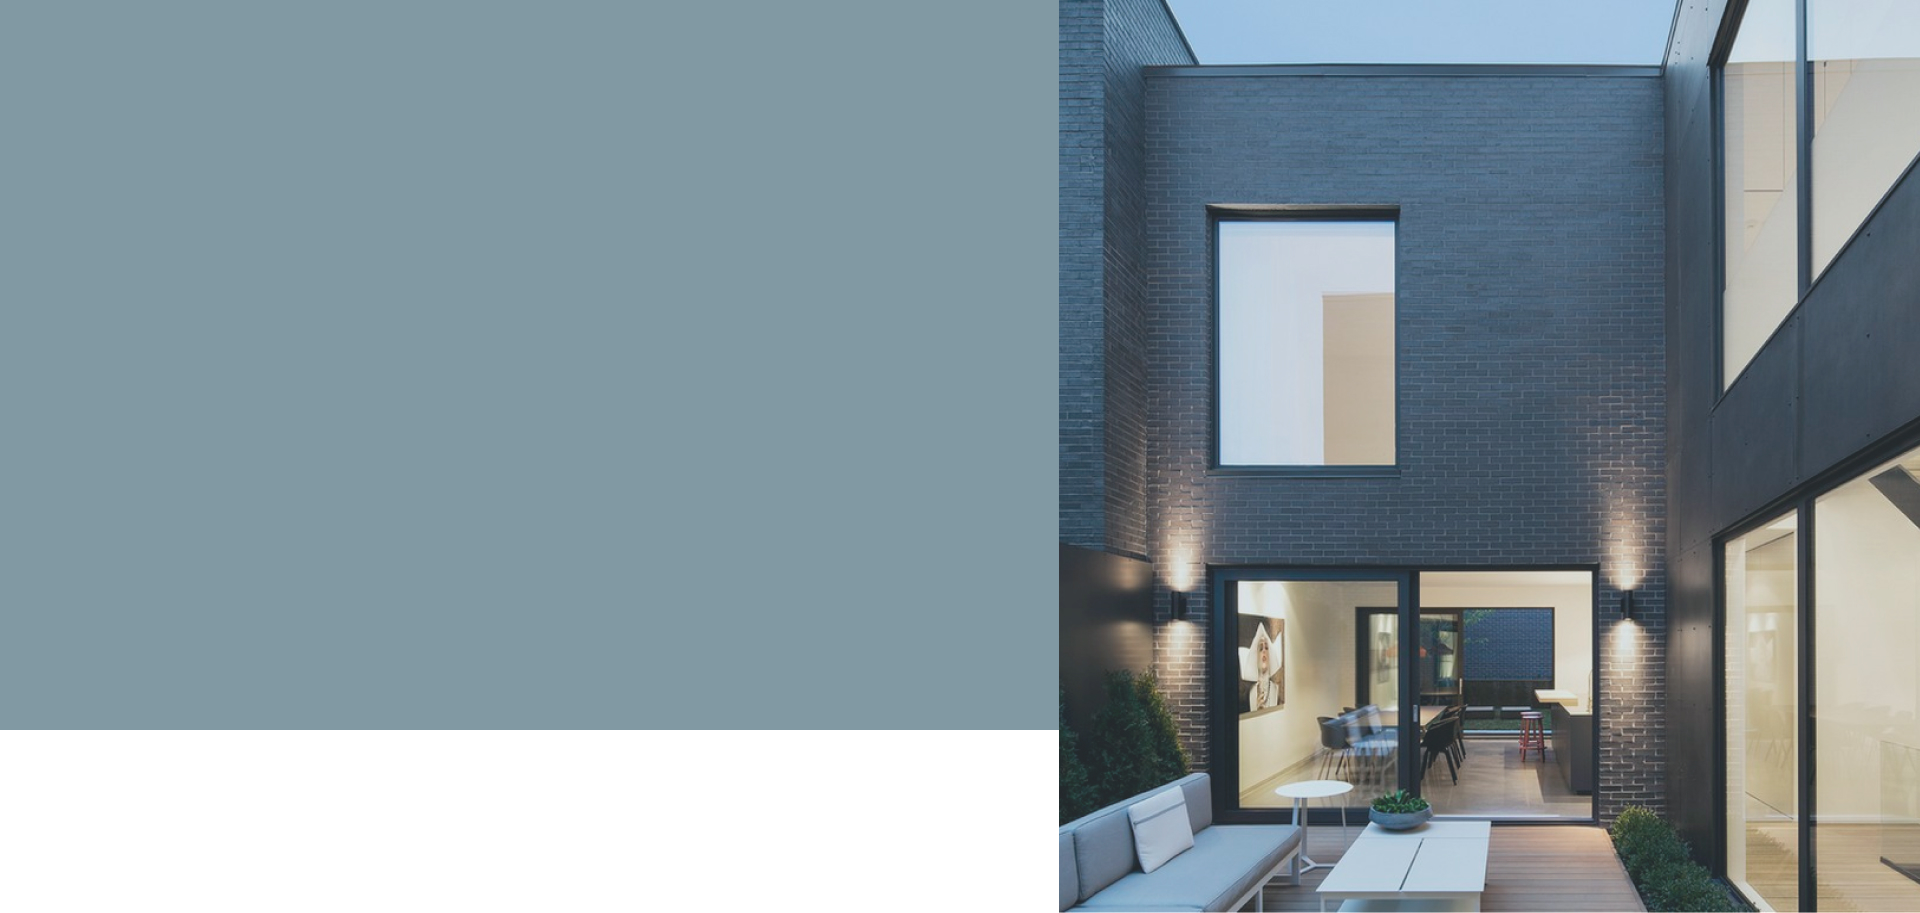
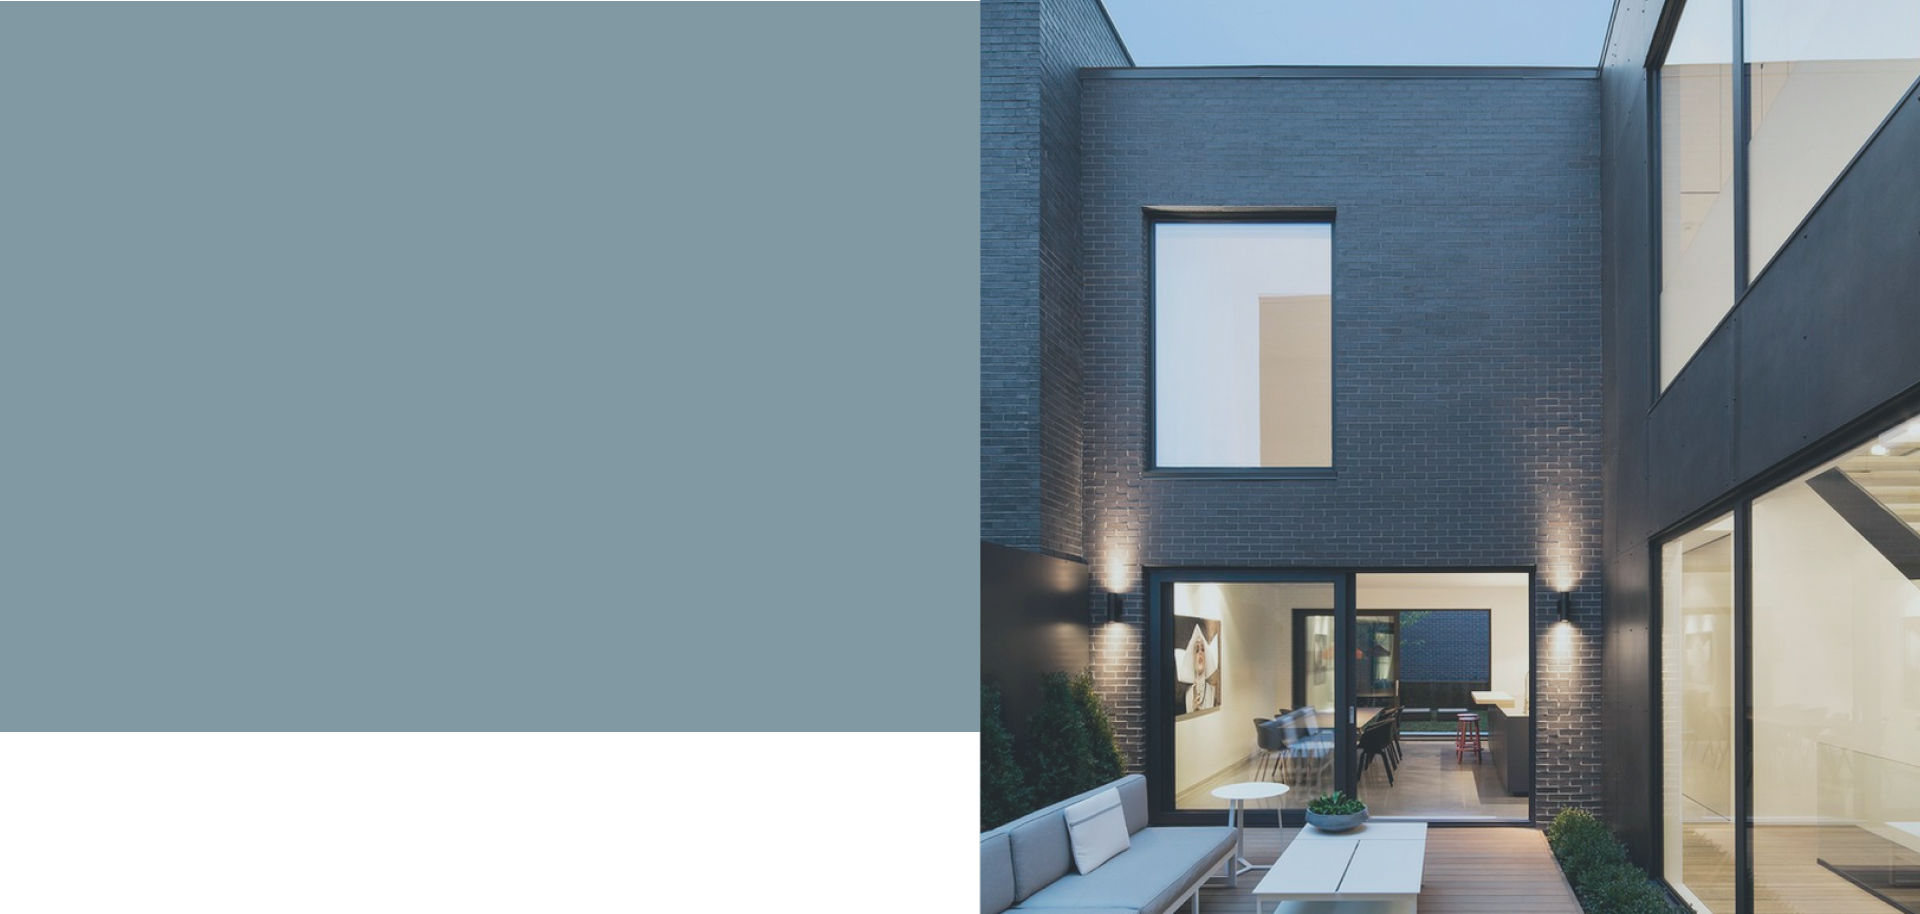
fix firstscreen+footer
движение изображений вправо

Changed region(s): [[0.5, 0.0, 1.0, 1.0]]

diff --git a/css/style.css b/css/style.css
@@ -329,11 +329,11 @@ p {
 
 .firstscreen__wrapper .photo-preview {
   height: 229px;
-  max-width: 650px;
+  max-width: 700px;
 }
 
 .firstscreen__wrapper .photo-preview img:not(:first-child) {
-  margin-left: 40px;
+  margin-left: 50px;
   max-width: 182px;
   height: 229px;
 }
@@ -815,6 +815,9 @@ p {
   -webkit-box-pack: start;
       -ms-flex-pack: start;
           justify-content: flex-start;
+  -webkit-box-align: end;
+      -ms-flex-align: end;
+          align-items: flex-end;
   padding-top: 30px;
   color: #8199A3;
   font-size: 14px;
@@ -825,9 +828,9 @@ p {
   display: -webkit-box;
   display: -ms-flexbox;
   display: flex;
-  -webkit-box-align: end;
-      -ms-flex-align: end;
-          align-items: flex-end;
+  -webkit-box-align: center;
+      -ms-flex-align: center;
+          align-items: center;
   font-family: 'Chicago-Regular';
   font-size: 20px;
   font-weight: 700;

diff --git a/scss/blocks/_footer.scss b/scss/blocks/_footer.scss
@@ -108,6 +108,7 @@
 	&__bottom {
 		display: flex;
 		justify-content: flex-start;
+		align-items: flex-end;
 		padding-top: 30px;
 		color: #8199A3;
 		font-size: 14px;
@@ -115,7 +116,7 @@
 
 		&-copyright {
 			display: flex;
-			align-items: flex-end;
+			align-items: center;
 			font-family: 'Chicago-Regular';
 			font-size: 20px;
 			font-weight: 700;

diff --git a/scss/blocks/_firstscreen.scss b/scss/blocks/_firstscreen.scss
@@ -80,12 +80,12 @@
 
 	.photo-preview {
 		height: 229px;
-		max-width: 650px;
+		max-width: 700px;
 
 	}
 
 	.photo-preview img:not(:first-child) {
-		margin-left: 40px;
+		margin-left: 50px;
 		max-width: 182px;
 		height: 229px;
 	}
